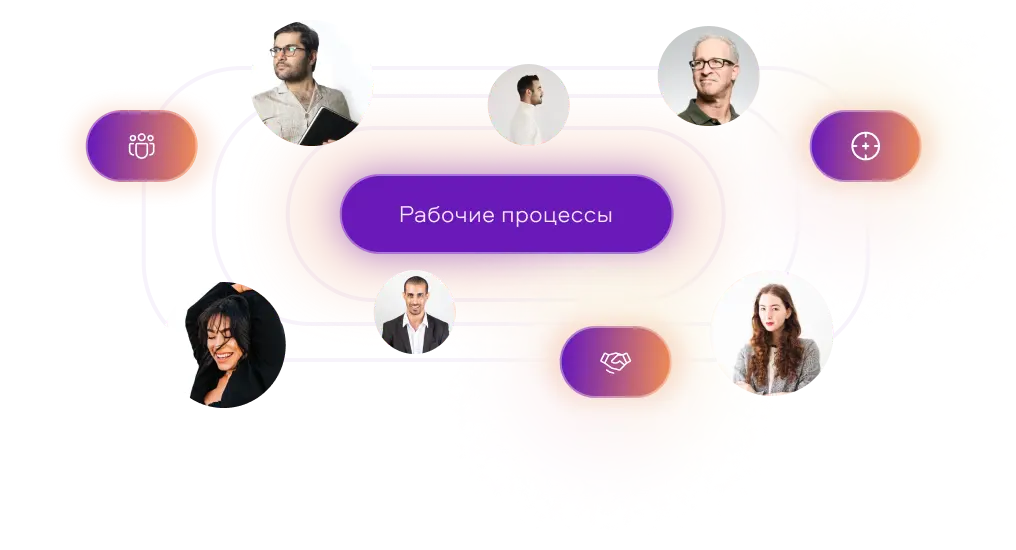
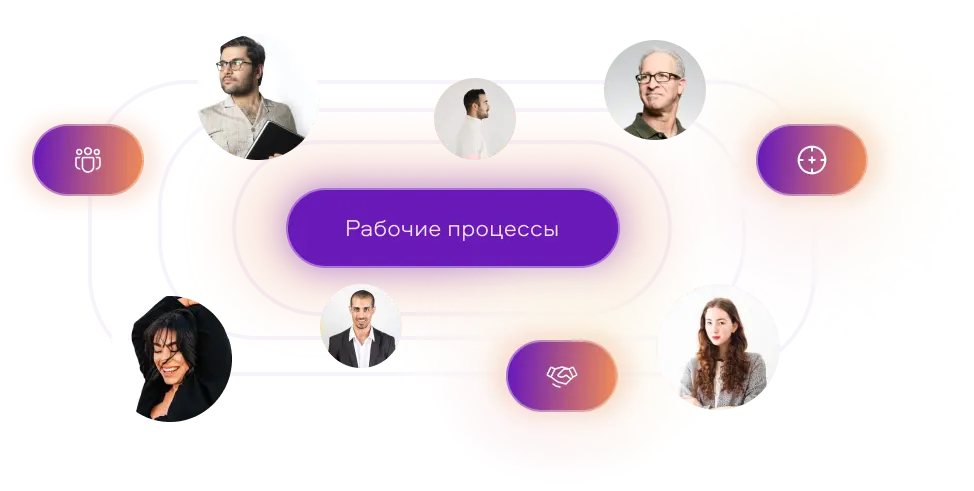
По анимациям

diff --git a/partials/approach.html b/partials/approach.html
@@ -19,8 +19,49 @@
 
                             <div class="approach__slider-card-content">
                                 <h3 class="approach__slider-card-title">
-                                    Снижаем уровень конфликтов внутри команды, развиваем эмпатию и доносим понимание
-                                    целей
+                                    Усиливаем бизнес с помощью
+                                    AI-продуктов авторской разработки
+                                </h3>
+                                <div class="approach__slider-card-text">
+                                    Технологии искусственного интеллекта помогают бизнесу автоматизировать задачи,
+                                    анализировать большие объемы данных и улучшают взаимодействие с клиентами, а мы
+                                    знаем как их направить на пользу вашему бизнесу.
+                                </div>
+                            </div>
+                            <div class="approach__slider-card-image-wrapper">
+                                <img src="/images/approach/1.webp" alt="" class="approach__slider-card-image">
+                            </div>
+                        </div>
+                    </div>
+                    <div class="swiper-slide">
+                        <div class="approach__slider-card">
+                            <div class="approach__slider-card-image-wrapper">
+                                <img src="/images/approach/2.webp" alt="" class="approach__slider-card-image">
+                            </div>
+                            <div class="approach__slider-card-content">
+                                <h3 class="approach__slider-card-title">
+                                    Придаем глубокий смысл
+                                    и значимость персонала
+                                    в экосистеме бизнеса
+                                </h3>
+                                <div class="approach__slider-card-text">
+                                    Прививаем философию Ikigai сотрудникам
+                                    и мотивируем их вкладывать душу в то, что они делают, будь то тестирование ПО или
+                                    разработка приложения. Методично направляем их к своей цели, помогаем развиваться и
+                                    расти.
+                                </div>
+                            </div>
+
+                        </div>
+                    </div>
+                    <div class="swiper-slide">
+                        <div class="approach__slider-card">
+
+                            <div class="approach__slider-card-content">
+                                <h3 class="approach__slider-card-title">
+                                    Придаем глубокий смысл
+                                    и значимость персонала
+                                    в экосистеме бизнеса
                                 </h3>
                                 <div class="approach__slider-card-text">
                                     Используя методику PCM, помогаем легко настраивать рабочие процессы, быстро находить
@@ -35,57 +76,19 @@
                     <div class="swiper-slide">
                         <div class="approach__slider-card">
                             <div class="approach__slider-card-image-wrapper">
-                                <img src="/images/approach/4.svg" alt="" class="approach__slider-card-image">
+                                <img src="/images/approach/4.webp" alt="" class="approach__slider-card-image">
                             </div>
                             <div class="approach__slider-card-content">
                                 <h3 class="approach__slider-card-title">
-                                    Делаем проекты мирового уровня для enterprise
+                                    Делаем проекты мирового уровня для enterprise
                                     компаний и холдингов
                                 </h3>
                                 <div class="approach__slider-card-text">
                                     Мы — эксперты в цифровой трансформации, импортозамещении, заказной и продуктовой
-                                    разработке. В первый год работы залетели в крупные корпорации отритейла до
+                                    разработке. В первый год работы залетели в крупные корпорации от ритейла до
                                     банковского сектора
                                 </div>
                             </div>
-
-                        </div>
-                    </div>
-                    <div class="swiper-slide">
-                        <div class="approach__slider-card">
-
-                            <div class="approach__slider-card-content">
-                                <h3 class="approach__slider-card-title">
-                                    Снижаем уровень конфликтов внутри команды, развиваем эмпатию и доносим понимание
-                                    целей
-                                </h3>
-                                <div class="approach__slider-card-text">
-                                    Используя методику PCM, помогаем легко настраивать рабочие процессы, быстро находить
-                                    общий язык между людьми и качественно принимать управленческие решения.
-                                </div>
-                            </div>
-                            <div class="approach__slider-card-image-wrapper">
-                                <img src="/images/approach/3.webp" alt="" class="approach__slider-card-image">
-                            </div>
-                        </div>
-                    </div>
-                    <div class="swiper-slide">
-                        <div class="approach__slider-card">
-                            <div class="approach__slider-card-image-wrapper">
-                                <img src="/images/approach/4.svg" alt="" class="approach__slider-card-image">
-                            </div>
-                            <div class="approach__slider-card-content">
-                                <h3 class="approach__slider-card-title">
-                                    Делаем проекты мирового уровня для enterprise
-                                    компаний и холдингов
-                                </h3>
-                                <div class="approach__slider-card-text">
-                                    Мы — эксперты в цифровой трансформации, импортозамещении, заказной и продуктовой
-                                    разработке. В первый год работы залетели в крупные корпорации отритейла до
-                                    банковского сектора
-                                </div>
-                            </div>
-
                         </div>
                     </div>
                 </div>

diff --git a/partials/reviews.html b/partials/reviews.html
@@ -74,7 +74,7 @@
                         <div class="swiper-slide">
                             <div class="reviews__slider-card">
                                 <div class="reviews__slider-card-image-wrapper">
-                                    <img src="/images/reviews/large.webp" alt="" class="reviews__slider-card-image">
+                                    <img src="/images/reviews/large-2.webp" alt="" class="reviews__slider-card-image">
                                 </div>
                                 <div class="reviews__slider-card-circle">
 
@@ -101,7 +101,7 @@
                         <div class="swiper-slide">
                             <div class="reviews__slider-card">
                                 <div class="reviews__slider-card-image-wrapper">
-                                    <img src="/images/reviews/large.webp" alt="" class="reviews__slider-card-image">
+                                    <img src="/images/reviews/large-3.webp" alt="" class="reviews__slider-card-image">
                                 </div>
                                 <div class="reviews__slider-card-circle">
 
@@ -128,7 +128,7 @@
                         <div class="swiper-slide">
                             <div class="reviews__slider-card">
                                 <div class="reviews__slider-card-image-wrapper">
-                                    <img src="/images/reviews/large.webp" alt="" class="reviews__slider-card-image">
+                                    <img src="/images/reviews/large-4.webp" alt="" class="reviews__slider-card-image">
                                 </div>
                                 <div class="reviews__slider-card-circle">
 

diff --git a/src/js/reviewsAnimation.ts b/src/js/reviewsAnimation.ts
@@ -1,0 +1,69 @@
+import gsap from "gsap";
+import { ScrollTrigger } from "gsap/ScrollTrigger";
+
+gsap.registerPlugin(ScrollTrigger);
+
+export default function reviewsAnimation() {
+  const elements = Array.from(
+    document.querySelectorAll<HTMLElement>(".reviews")
+  );
+
+  elements.forEach((element) => {
+    let mm = gsap.matchMedia();
+
+    mm.add("(min-width: 641px)", () => {
+      const tl = gsap.timeline({
+        scrollTrigger: {
+          trigger: element,
+          start: "top+=300 bottom",
+          end: "bottom top",
+        },
+      });
+
+      tl.from(element.querySelector<HTMLElement>(".reviews__large-text"), {
+        autoAlpha: 0,
+        y: 40,
+        duration: 1,
+        ease: "power2.out",
+      });
+
+      tl.from(element.querySelector(".reviews__thumbs"), {
+        autoAlpha: 0,
+        duration: 1,
+        ease: "power2.out",
+      });
+      tl.from(
+        Array.from(
+          element.querySelectorAll(".reviews__slider-card-image-wrapper")
+        ),
+        {
+          scale: 0,
+          duration: 1,
+          ease: "power2.out",
+          clearProps: "all",
+        },
+        "<"
+      );
+      tl.from(
+        Array.from(element.querySelectorAll(".reviews__slider-card-circle")),
+        {
+          autoAlpha: 0,
+          duration: 1,
+          ease: "power2.out",
+          clearProps: "all",
+        },
+        "<"
+      );
+      tl.from(
+        Array.from(element.querySelectorAll(".reviews__slider-card-content")),
+        {
+          autoAlpha: 0,
+          duration: 1,
+          ease: "power2.out",
+          clearProps: "all",
+        },
+        "<"
+      );
+    });
+  });
+}

diff --git a/src/js/main.ts b/src/js/main.ts
@@ -21,6 +21,7 @@ import expertiseAnimation from "./expertiseAnimation";
 import parallaxBlocks from "./parallaxBlocks";
 import clientsAnimation from "./clientsAnimation";
 import servicesAnimation from "./servicesAnimation";
+import reviewsAnimation from "./reviewsAnimation";
 
 document.addEventListener("DOMContentLoaded", () => {
   smoothScrolling();
@@ -44,6 +45,7 @@ document.addEventListener("DOMContentLoaded", () => {
   parallaxBlocks();
   clientsAnimation();
   servicesAnimation();
+  reviewsAnimation();
 });
 
 window.addEventListener("load", () => {
